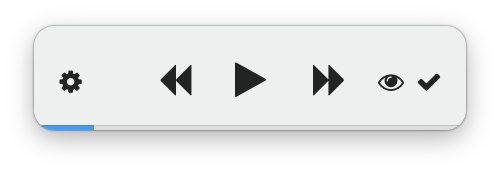
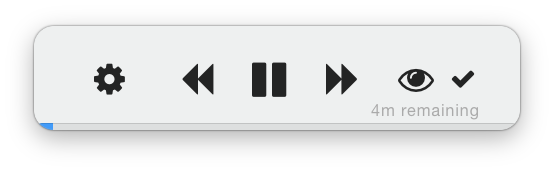
Add remaining time text to teleprompter, rename variable

diff --git a/Dictater/SpeechButtonManager.swift b/Dictater/SpeechButtonManager.swift
@@ -16,7 +16,7 @@ class SpeechButtonManager : NSObject
 	weak var skipForwardButton : NSButton?
 	weak var skipBackwardsButton : NSButton?
 	weak var openTeleprompterButton : NSButton?
-	weak var totalDurationView : NSTextField?
+	weak var remainingTimeView : NSTextField?
 	
 	let speech : Speech
 	let controls : Speech.Controls
@@ -79,7 +79,7 @@ class SpeechButtonManager : NSObject
 		}
 		
 		if let duration = self.totalDurationText,
-		let view = self.totalDurationView,
+		let view = self.remainingTimeView,
 		let vocalization = self.speech.vocalization
 		where !vocalization.didFinish
 		{
@@ -91,7 +91,7 @@ class SpeechButtonManager : NSObject
 				view.animator().alphaValue = 1.0
 			}
 		} else {
-			self.totalDurationView?.alphaValue = 0.0
+			self.remainingTimeView?.alphaValue = 0.0
 		}
 	}
 	

diff --git a/Dictater/ViewController.swift b/Dictater/ViewController.swift
@@ -19,7 +19,7 @@ class ViewController: NSViewController {
 	@IBOutlet var skipForwardButton : NSButton?
 	@IBOutlet var skipBackwardsButton : NSButton?
 	@IBOutlet var openTeleprompterButton : NSButton?
-	@IBOutlet var totalDurationView : NSTextField?
+	@IBOutlet var remainingTimeView : NSTextField?
 	
 	override func viewDidLoad() {
 		super.viewDidLoad()
@@ -31,7 +31,7 @@ class ViewController: NSViewController {
 		self.buttonController.playPauseButton = self.playPauseButton
 		self.buttonController.skipForwardButton = self.skipForwardButton
 		self.buttonController.skipBackwardsButton = self.skipBackwardsButton
-		self.buttonController.totalDurationView = self.totalDurationView
+		self.buttonController.remainingTimeView = self.remainingTimeView
 		
 		self.buttonController.update()
 	}

diff --git a/Dictater/Teleprompter.swift b/Dictater/Teleprompter.swift
@@ -16,6 +16,7 @@ class Teleprompter : NSViewController
 	@IBOutlet var skipBackwardsButton : NSButton?
 	@IBOutlet var skipForwardButton : NSButton?
 	@IBOutlet var progressIndicator : NSProgressIndicator?
+	@IBOutlet var remainingTimeView : NSTextField?
 	
 	let speech = Speech.sharedSpeech
 	let buttonController = SpeechButtonManager(speech: Speech.sharedSpeech)
@@ -31,6 +32,7 @@ class Teleprompter : NSViewController
 		self.buttonController.playPauseButton = self.playPauseButton
 		self.buttonController.skipForwardButton = self.skipForwardButton
 		self.buttonController.skipBackwardsButton = self.skipBackwardsButton
+		self.buttonController.remainingTimeView = self.remainingTimeView
 		
 		self.buttonController.update()
 	}
